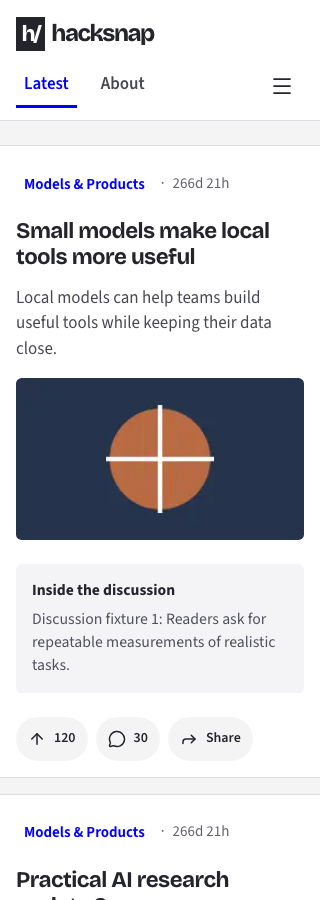
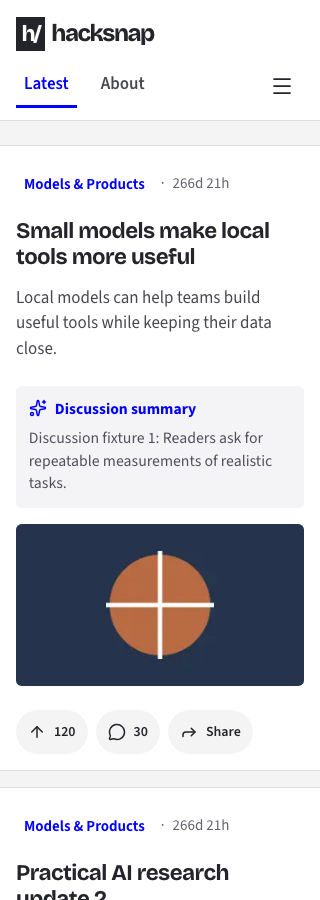
Fix mobile image sizing and verify rebased discussion cards

diff --git a/hacksnap/web/e2e/visual.spec.ts b/hacksnap/web/e2e/visual.spec.ts
@@ -95,12 +95,24 @@ for (const width of [320, 1280])
           }
           const headline = await card.locator(".feed-story-title").boundingBox();
           const excerpt = await card.locator(".feed-excerpt").boundingBox();
+          const discussion = card.locator(".feed-discussion-preview");
+          await expect(
+            discussion.getByRole("heading", { name: "Discussion summary" }),
+          ).toBeVisible();
+          const discussionBounds = await discussion.boundingBox();
           const image = await card.locator(".feed-story-image").boundingBox();
           expect(excerpt!.y, "Subtitle follows the headline").toBeGreaterThanOrEqual(
             headline!.y + headline!.height,
           );
-          expect(image!.y, "Image follows the subtitle").toBeGreaterThanOrEqual(
+          expect(discussionBounds!.y, "Discussion follows the subtitle").toBeGreaterThanOrEqual(
             excerpt!.y + excerpt!.height,
+          );
+          expect(discussionBounds!.x).toBeGreaterThan(cardBounds!.x);
+          expect(discussionBounds!.x + discussionBounds!.width).toBeLessThan(
+            cardBounds!.x + cardBounds!.width,
+          );
+          expect(image!.y, "Image follows the discussion summary").toBeGreaterThanOrEqual(
+            discussionBounds!.y + discussionBounds!.height,
           );
         }
         const header = await page.getByRole("banner").boundingBox();

diff --git a/hacksnap/web/e2e/frontend-revamp.spec.ts b/hacksnap/web/e2e/frontend-revamp.spec.ts
@@ -66,13 +66,15 @@ for (const width of widths) {
           left: rect.x - cardRect.x,
           right: cardRect.right - rect.right,
           padding: parseFloat(css.paddingLeft),
+          border: parseFloat(css.borderLeftWidth),
           fit: getComputedStyle(node).objectFit,
         };
       });
       const variant = variants[name as keyof typeof variants];
       expect(geometry.width / geometry.height).toBeCloseTo(variant.width / variant.height, 2);
-      expect(geometry.left).toBeCloseTo(geometry.padding + 1, 0);
-      expect(geometry.right).toBeCloseTo(geometry.padding + 1, 0);
+      expect(geometry.border).toBe(width < 672 ? 0 : 1);
+      expect(geometry.left).toBeCloseTo(geometry.padding + geometry.border, 0);
+      expect(geometry.right).toBeCloseTo(geometry.padding + geometry.border, 0);
       expect(geometry.fit).not.toBe("cover");
       if (index > 0) await expect(image).toHaveAttribute("loading", "lazy");
       await testInfo.attach(`${name}-${width}-selected-image.json`, {

diff --git a/hacksnap/web/app/story-row.tsx b/hacksnap/web/app/story-row.tsx
@@ -11,7 +11,7 @@ import { ArticleImage } from "./article-image";
 import { canonicalArticleImage } from "../lib/article-image";
 
 const FEED_IMAGE_SIZES =
-  "(min-width: 78rem) min(calc(100vw - 41.5rem - 2px), 41.875rem), (min-width: 60rem) min(calc(100vw - 22rem - 2px), 41.875rem), (min-width: 42rem) min(calc(100vw - 8rem - 2px), 41.875rem), (max-width: 26rem) calc(100vw - 4rem - 2px), calc(100vw - 5rem - 2px)";
+  "(min-width: 78rem) min(calc(100vw - 41.5rem - 2px), 41.875rem), (min-width: 60rem) min(calc(100vw - 22rem - 2px), 41.875rem), (min-width: 42rem) min(calc(100vw - 8rem - 2px), 41.875rem), (max-width: 26rem) calc(100vw - 2rem), calc(100vw - 3rem)";
 
 export function StoryRow({
   story,
